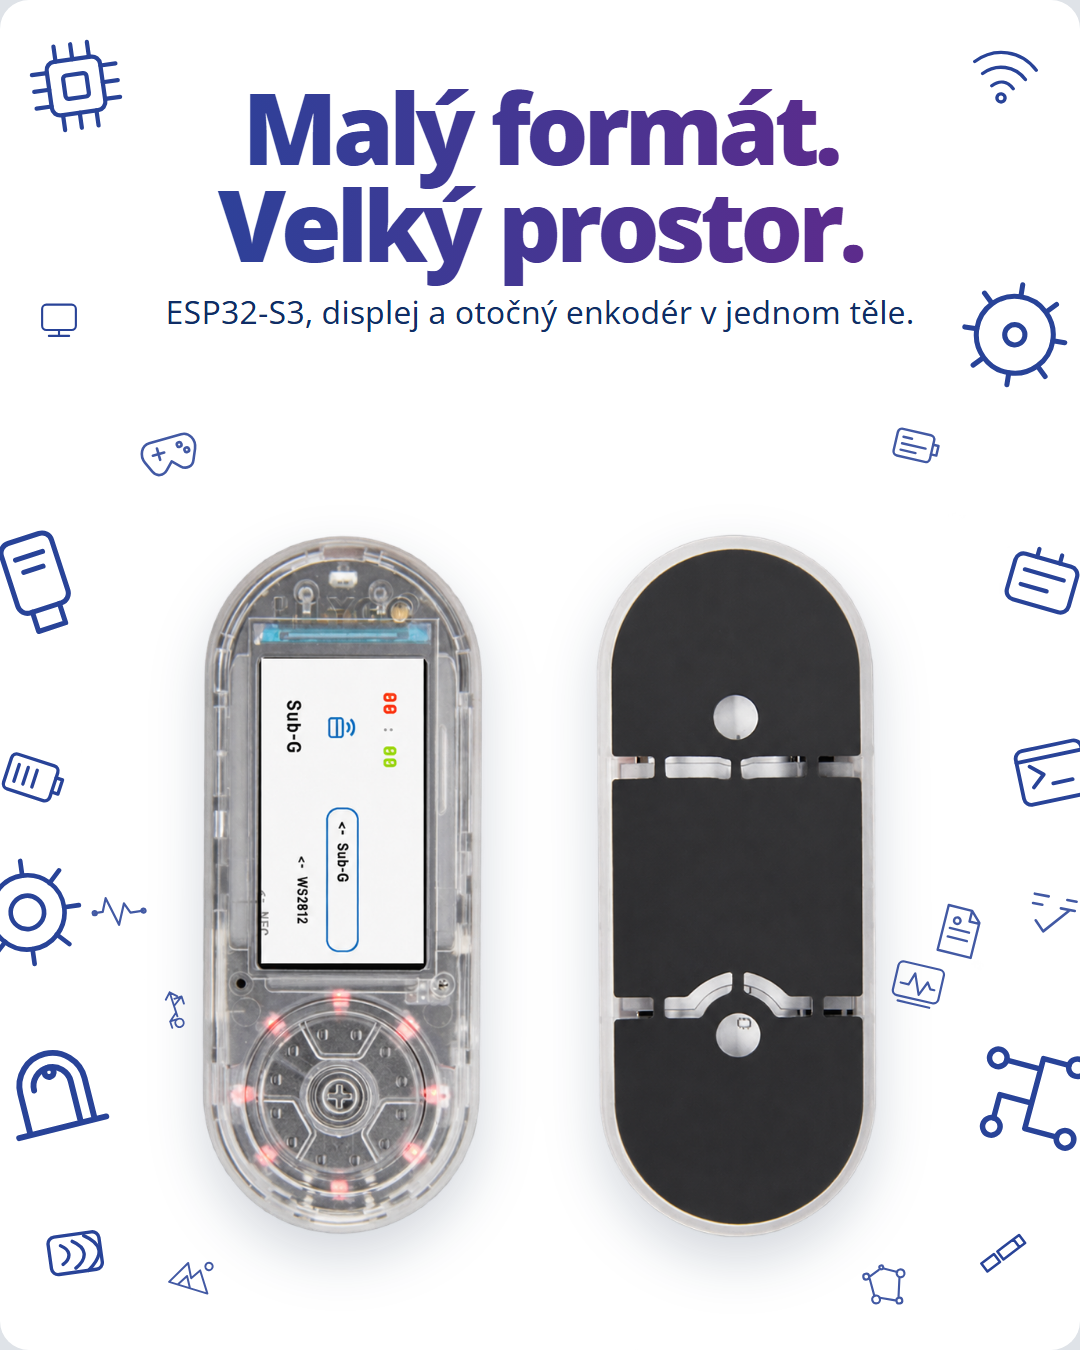
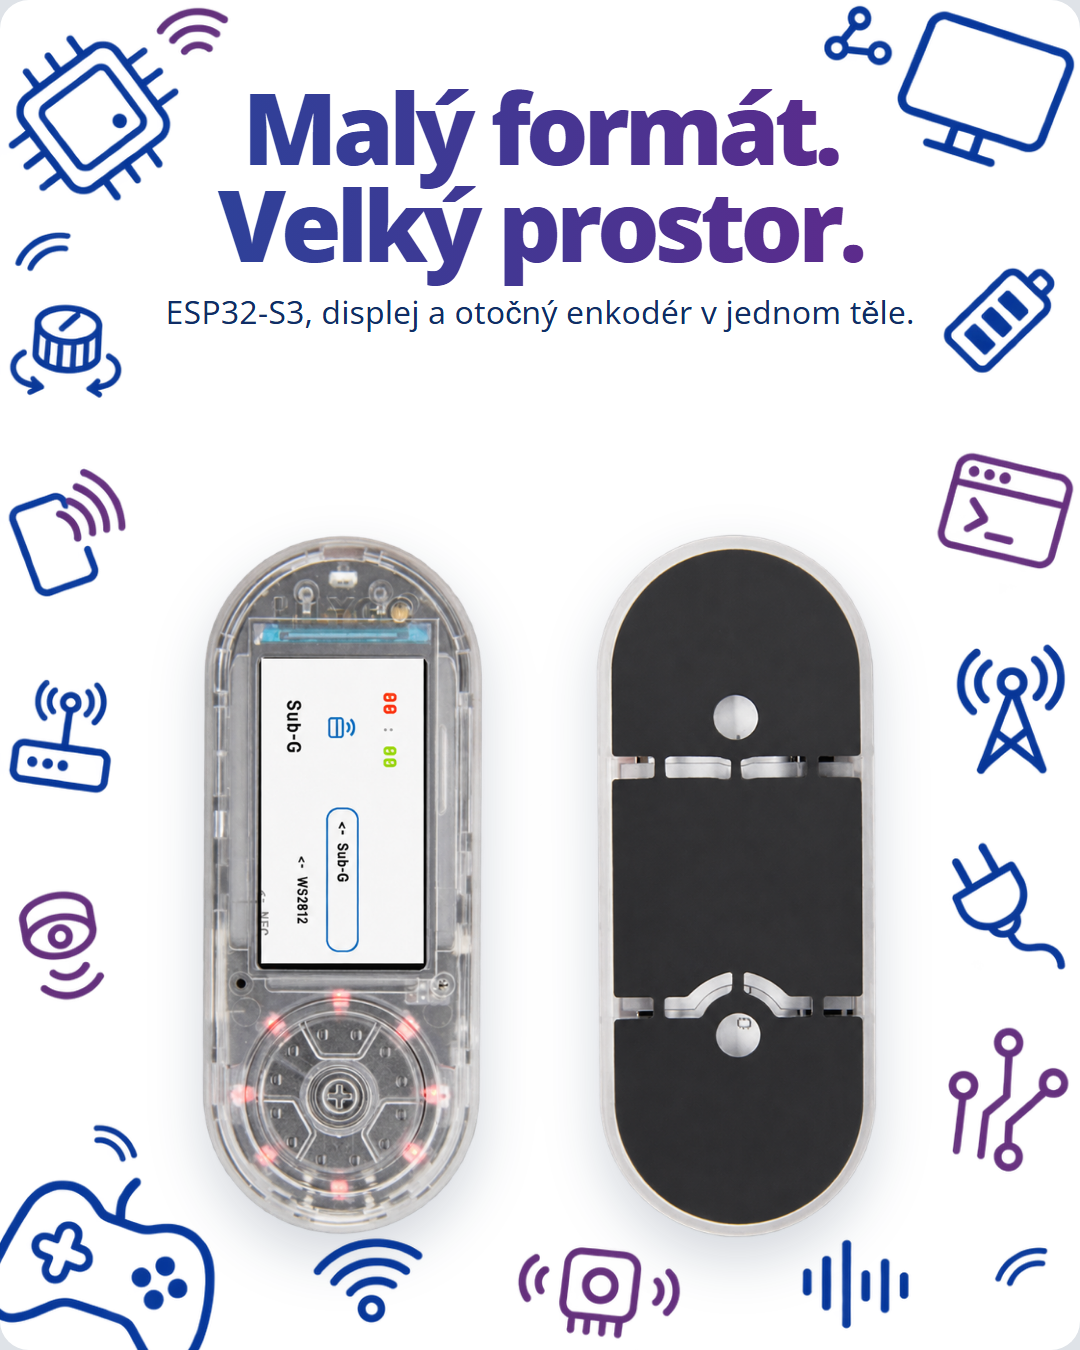
Add product editorial Instagram designs

diff --git a/public/ig-templates/styles.css b/public/ig-templates/styles.css
@@ -8,7 +8,7 @@
 /* Alza-like editorial proportions: large subjects, balanced grids, no UI chrome. */
 .bingo .inner{inset:6.8cqw}.bingo h1{font-size:12.6cqw!important;line-height:.86}.bingo h2{margin-top:1.3cqw;font-size:5.4cqw;line-height:1.05}.bingo-grid{display:grid;grid-template-columns:repeat(3,1fr);grid-template-rows:repeat(3,1fr);height:77cqw;margin-top:4.6cqw;border:.14cqw solid rgba(255,255,255,.32)}.bingo-grid div{display:grid;place-items:center;border:.14cqw solid rgba(255,255,255,.32);overflow:hidden}.bingo-grid img{display:block;max-width:20cqw;max-height:20cqw;object-fit:contain;filter:drop-shadow(0 1.2cqw 1.5cqw rgba(4,16,46,.25))}.bingo-grid div:first-child img{max-width:22cqw;max-height:18cqw}.bingo-grid div:nth-child(7) img{max-width:22cqw;max-height:21cqw}
 .l02 .inner{width:62cqw}.l02 h1{font-size:8.7cqw}.l02 .photo{width:70cqw;height:94cqw;right:-9cqw;bottom:-4cqw}.l08 .inner{width:62cqw}.l08 h1{font-size:8.1cqw}.l08 .photo{width:70cqw;height:94cqw;right:-7cqw;bottom:-4cqw}.l03 .photo{width:91cqw;height:94cqw;left:4.5cqw;bottom:-4cqw}
-.tech-icons{position:absolute;inset:0;z-index:3;pointer-events:none}.tech-icons svg{position:absolute;width:7.5cqw;height:7.5cqw;fill:none;stroke:#284398;stroke-width:2.5;stroke-linecap:round;stroke-linejoin:round}.tech-icons .i1{left:5cqw;top:4cqw;width:9cqw;height:9cqw}.tech-icons .i2{right:6cqw;top:5cqw}.tech-icons .i3{left:5cqw;top:29cqw;width:5.5cqw;height:5.5cqw}.tech-icons .i4{right:4cqw;top:27cqw;width:10cqw;height:10cqw}.tech-icons .i5{left:5cqw;bottom:6cqw;width:8cqw;height:8cqw}.tech-icons .i6{right:6cqw;bottom:7cqw;width:6cqw;height:6cqw}.icon-poster .inner{inset:7.2cqw 12cqw}.icon-poster .sub{font-size:3cqw}
+.icon-poster .inner{inset:7.2cqw 12cqw}.icon-poster .sub{font-size:3cqw}
 .numbered-poster .inner{inset:6.8cqw 9cqw auto}.numbered-poster h1{font-size:8.4cqw;line-height:1.02}.numbered-poster .photo{width:80cqw;height:94cqw;left:10cqw;bottom:-4cqw}.number{position:absolute;z-index:6;display:grid;justify-items:center;line-height:1;text-align:center;color:#102d66}.number b{font-size:5.5cqw;font-weight:500}.number span{margin-top:.7cqw;font-size:1.65cqw;font-weight:650;white-space:nowrap}.number.n1{left:22cqw;top:50cqw}.number.n2{left:22cqw;top:66cqw}.number.n3{left:22cqw;top:84cqw}.number.n4{left:68cqw;top:60cqw;color:#fff}.number.n5{left:69cqw;top:83cqw;color:#fff}
 .l02 .inner{width:82cqw}.l02 h1{font-size:7.8cqw}.l08 .inner{width:88cqw}.l08 h1{font-size:7.4cqw}.l08 .letters{width:46cqw}
 .five-products .inner{inset:6.8cqw 8cqw auto}.five-products h1{font-size:8.9cqw;line-height:1.02}.product-five{position:absolute;left:4cqw;right:4cqw;bottom:0;height:92cqw;z-index:4;display:flex;align-items:flex-end;justify-content:center}.product-five div{position:relative;width:19cqw;height:80cqw;display:flex;align-items:flex-end;justify-content:center;margin:0 -.7cqw}.product-five img{display:block;max-width:20cqw;max-height:78cqw;object-fit:contain;filter:drop-shadow(0 2cqw 2cqw rgba(8,29,59,.18))}.product-five b{position:absolute;left:50%;top:45%;transform:translate(-50%,-50%);z-index:5;color:#fff;font-size:6cqw;line-height:1;font-weight:500;text-shadow:0 .2cqw .7cqw rgba(0,0,0,.72)}.product-five .p1{height:70cqw}.product-five .p2{height:76cqw}.product-five .p3{height:82cqw}.product-five .p4{height:74cqw}.product-five .p5{height:79cqw}.product-five .p3 b{top:50%}
@@ -18,8 +18,9 @@
 .l01 .photo{width:96cqw;height:96cqw;left:2cqw;bottom:-2cqw}
 .l02 .photo{width:86cqw;height:105cqw;right:-1cqw;bottom:-8cqw;transform:rotate(5deg);transform-origin:center}
 .l08 .letters b{background:#fff;color:#27b914;box-shadow:0 .45cqw 1.1cqw rgba(11,73,7,.08)}
-.tech-icons .i1{left:2cqw;top:3cqw;width:10cqw;height:10cqw;transform:rotate(-8deg)}.tech-icons .i2{right:3cqw;top:3cqw;width:8cqw;height:8cqw;transform:rotate(8deg)}.tech-icons .i3{left:3cqw;top:27cqw;width:5cqw;height:5cqw}.tech-icons .i4{right:0;top:25cqw;width:12cqw;height:12cqw;transform:rotate(9deg)}.tech-icons .i5{left:3cqw;bottom:5cqw;width:8cqw;height:8cqw;transform:rotate(-8deg)}.tech-icons .i6{right:4cqw;bottom:6cqw;width:6cqw;height:6cqw;transform:rotate(8deg)}.tech-icons .i7{left:18cqw;top:16cqw;width:4.2cqw;height:4.2cqw;transform:rotate(-12deg)}.tech-icons .i8{right:18cqw;top:16cqw;width:4.8cqw;height:4.8cqw;transform:rotate(10deg)}.tech-icons .i9{left:-2.5cqw;top:48cqw;width:12cqw;height:12cqw;transform:rotate(-18deg)}.tech-icons .i10{right:-1.5cqw;top:49cqw;width:10cqw;height:10cqw;transform:rotate(16deg)}.tech-icons .i11{left:-2cqw;bottom:17cqw;width:14cqw;height:14cqw;transform:rotate(-14deg)}.tech-icons .i12{right:-2cqw;bottom:17cqw;width:13cqw;height:13cqw;transform:rotate(15deg)}
-.tech-icons .i13{left:12cqw;top:38cqw;width:7cqw;height:7cqw;transform:rotate(-16deg)}.tech-icons .i14{right:12cqw;top:38cqw;width:6.5cqw;height:6.5cqw;transform:rotate(13deg)}.tech-icons .i15{left:-1cqw;top:68cqw;width:8cqw;height:8cqw;transform:rotate(18deg)}.tech-icons .i16{right:-2cqw;top:67cqw;width:9cqw;height:9cqw;transform:rotate(-12deg)}.tech-icons .i17{left:8cqw;top:81cqw;width:6cqw;height:6cqw;transform:rotate(-9deg)}.tech-icons .i18{right:8cqw;top:83cqw;width:6.5cqw;height:6.5cqw;transform:rotate(14deg)}.tech-icons .i19{left:14cqw;bottom:29cqw;width:5cqw;height:5cqw;transform:rotate(-18deg)}.tech-icons .i20{right:12cqw;bottom:31cqw;width:6cqw;height:6cqw;transform:rotate(13deg)}.tech-icons .i21{left:-3cqw;bottom:35cqw;width:11cqw;height:11cqw;transform:rotate(-8deg)}.tech-icons .i22{right:-1cqw;bottom:37cqw;width:7cqw;height:7cqw;transform:rotate(11deg)}.tech-icons .i23{left:15cqw;bottom:4cqw;width:5.4cqw;height:5.4cqw;transform:rotate(17deg)}.tech-icons .i24{right:15cqw;bottom:3cqw;width:5.8cqw;height:5.8cqw;transform:rotate(-12deg)}
-.tech-icons .i7,.tech-icons .i8,.tech-icons .i13,.tech-icons .i14,.tech-icons .i17,.tech-icons .i18,.tech-icons .i19,.tech-icons .i20,.tech-icons .i22,.tech-icons .i23,.tech-icons .i24{stroke-width:2.2;opacity:.88}
 .ig h1,.ig h2{overflow:visible;text-wrap:balance;padding:.1em .05em .14em;margin:-.1em -.05em -.14em}
 .five-products .inner{top:7.8cqw}.five-products h1{line-height:1.06}
+.tech-icons-generated{position:absolute;inset:0;z-index:3;width:100%;height:100%;object-fit:fill;pointer-events:none;user-select:none;-webkit-user-drag:none}
+.flipper-editorial{background:radial-gradient(circle at 50% 67%,#fff 0%,#fff8f1 54%,#fff2e4 100%);color:#102d66}.flipper-editorial .inner{inset:7.6cqw 7.8cqw auto}.flipper-editorial h1{font-size:8.8cqw;line-height:1.01}.flipper-editorial .sub{max-width:72cqw;margin:1.8cqw auto 0;font-size:2.85cqw}.flipper-editorial .editorial-product{position:absolute;z-index:4;left:4cqw;bottom:15cqw;width:92cqw;height:67cqw;object-fit:contain;mix-blend-mode:multiply;filter:drop-shadow(0 2.2cqw 2.7cqw rgba(65,35,10,.18));transform:rotate(-2deg)}.signal-rings{position:absolute;left:50%;bottom:8cqw;width:92cqw;height:92cqw;transform:translateX(-50%);z-index:1}.signal-rings i{position:absolute;left:50%;top:50%;border:.9cqw solid #ff7b20;border-radius:50%;transform:translate(-50%,-50%);opacity:.22}.signal-rings i:nth-child(1){width:43cqw;height:43cqw}.signal-rings i:nth-child(2){width:65cqw;height:65cqw;opacity:.16}.signal-rings i:nth-child(3){width:88cqw;height:88cqw;opacity:.1}
+.lilygo-editorial .inner{inset:7.6cqw 13cqw auto}.lilygo-editorial h1{font-size:10.1cqw;line-height:.96}.lilygo-editorial .sub{font-size:2.85cqw}.lilygo-editorial-product{position:absolute;z-index:4;left:4cqw;bottom:-2cqw;width:92cqw;height:94cqw;object-fit:contain;filter:drop-shadow(0 2.2cqw 2.5cqw rgba(8,29,59,.18))}
+.cardputer-editorial{background:radial-gradient(circle at 84% 10%,rgba(90,151,255,.34),transparent 35%),linear-gradient(145deg,#103780 0%,#303aa5 52%,#6f286f 100%)}.cardputer-editorial .inner{inset:7.4cqw 8cqw auto;width:68cqw}.cardputer-editorial h1{font-size:8.6cqw;line-height:.98}.cardputer-editorial .sub{max-width:60cqw;font-size:2.8cqw}.cardputer-card{position:absolute;z-index:3;left:6cqw;right:6cqw;bottom:6cqw;height:76cqw;border-radius:4cqw;background:#fff;box-shadow:0 2.5cqw 5cqw rgba(3,16,47,.28);overflow:hidden;transform:rotate(-2deg)}.cardputer-card:before{content:"";position:absolute;inset:3cqw;border:.18cqw solid #dce5f2;border-radius:2.4cqw}.cardputer-card img{position:absolute;inset:4cqw;width:calc(100% - 8cqw);height:calc(100% - 8cqw);object-fit:contain;mix-blend-mode:multiply;transform:rotate(3deg) scale(1.08);filter:drop-shadow(0 1.5cqw 2cqw rgba(7,21,47,.18))}

diff --git a/public/ig-templates/04-novinka-white.html b/public/ig-templates/04-novinka-white.html
@@ -13,31 +13,7 @@
     <p class="sub">ESP32-S3, displej a otočný enkodér v jednom těle.</p>
   </div>
 
-  <div class="tech-icons" aria-hidden="true">
-    <svg class="i1" viewBox="0 0 64 64"><rect x="16" y="16" width="32" height="32" rx="5"/><rect x="25" y="25" width="14" height="14" rx="2"/><path d="M22 7v9m10-9v9m10-9v9M22 48v9m10-9v9m10-9v9M7 22h9M7 32h9M7 42h9m32-20h9m-9 10h9m-9 10h9"/></svg>
-    <svg class="i2" viewBox="0 0 64 64"><path d="M9 25c13-13 33-13 46 0M16 33c9-9 23-9 32 0M24 41c5-5 11-5 16 0"/><circle cx="32" cy="49" r="3"/></svg>
-    <svg class="i3" viewBox="0 0 64 64"><rect x="12" y="15" width="40" height="30" rx="5"/><path d="M20 52h24M32 45v7"/></svg>
-    <svg class="i4" viewBox="0 0 64 64"><circle cx="32" cy="32" r="19"/><circle cx="32" cy="32" r="5"/><path d="M32 7v6m0 38v6M7 32h6m38 0h6M14 14l4 4m28 28 4 4m0-36-4 4M18 46l-4 4"/></svg>
-    <svg class="i5" viewBox="0 0 64 64"><rect x="13" y="18" width="38" height="28" rx="5"/><path d="M22 25c7 4 7 10 0 14m9-16c10 6 10 14 0 20m9-23c13 8 13 16 0 26"/></svg>
-    <svg class="i6" viewBox="0 0 64 64"><path d="M11 46l11-11 7 7-11 11zM25 32l14-14 7 7-14 14zM39 18l5-5 7 7-5 5"/></svg>
-    <svg class="i9" viewBox="0 0 64 64"><rect x="19" y="9" width="26" height="36" rx="5"/><path d="M25 45v10h14V45M25 18h14M27 25h10"/></svg>
-    <svg class="i10" viewBox="0 0 64 64"><rect x="13" y="18" width="38" height="28" rx="5"/><path d="M20 27h24M20 36h16M25 13v5m14-5v5"/></svg>
-    <svg class="i11" viewBox="0 0 64 64"><path d="M18 48V30a14 14 0 0128 0v18M13 48h38M24 30a8 8 0 0116 0v18"/><circle cx="32" cy="24" r="2"/></svg>
-    <svg class="i12" viewBox="0 0 64 64"><circle cx="13" cy="19" r="4"/><circle cx="49" cy="14" r="4"/><circle cx="52" cy="47" r="4"/><circle cx="18" cy="50" r="4"/><path d="M17 19h16V14h12M33 19v28h15M33 35H18v11"/></svg>
-    <svg class="i13" viewBox="0 0 64 64"><path d="M18 24h28c7 0 11 8 8 15l-4 9c-2 5-8 6-12 2l-6-6-6 6c-4 4-10 3-12-2l-4-9c-3-7 1-15 8-15zM23 30v10m-5-5h10"/><circle cx="42" cy="32" r="2"/><circle cx="47" cy="38" r="2"/></svg>
-    <svg class="i14" viewBox="0 0 64 64"><rect x="14" y="20" width="34" height="25" rx="4"/><path d="M48 28h5v9h-5M20 27h8M20 33h22M20 39h14"/></svg>
-    <svg class="i15" viewBox="0 0 64 64"><rect x="13" y="19" width="36" height="27" rx="4"/><path d="M49 27h5v11h-5M20 26v13M27 26v13M34 26v13"/></svg>
-    <svg class="i16" viewBox="0 0 64 64"><rect x="10" y="14" width="44" height="36" rx="5"/><path d="M18 25l8 7-8 7M31 39h13M10 21h44"/></svg>
-    <svg class="i17" viewBox="0 0 64 64"><path d="M8 34h8l5-13 9 28 8-20 5 10h13"/><circle cx="8" cy="34" r="2"/><circle cx="56" cy="39" r="2"/></svg>
-    <svg class="i18" viewBox="0 0 64 64"><path d="M18 11h22l9 9v33H18zM40 11v10h9M24 31h18M24 39h18"/><circle cx="29" cy="23" r="3"/></svg>
-    <svg class="i19" viewBox="0 0 64 64"><path d="M29 9v30m0-30-7 7m7-7 7 7M29 26l12-8m0 0v9m0-9h-9M29 34l-10 8m0 0v8m0-8h8"/><circle cx="29" cy="47" r="5"/></svg>
-    <svg class="i20" viewBox="0 0 64 64"><rect x="9" y="15" width="46" height="34" rx="5"/><path d="M15 36h8l4-12 8 20 6-14 4 6h4M16 54h32"/></svg>
-    <svg class="i21" viewBox="0 0 64 64"><circle cx="32" cy="32" r="9"/><circle cx="32" cy="32" r="20"/><path d="M32 4v8m0 40v8M4 32h8m40 0h8M12 12l6 6m28 28 6 6m0-40-6 6M18 46l-6 6"/></svg>
-    <svg class="i22" viewBox="0 0 64 64"><path d="M14 19h12M14 27h8M42 19h8M38 27h12M19 41l8 8 18-21"/></svg>
-    <svg class="i23" viewBox="0 0 64 64"><path d="M10 43l14-26 8 15 7-11 15 22zM20 43l7-12 7 12"/><circle cx="47" cy="14" r="4"/></svg>
-    <svg class="i24" viewBox="0 0 64 64"><circle cx="14" cy="18" r="3"/><circle cx="31" cy="12" r="2"/><circle cx="49" cy="22" r="4"/><circle cx="19" cy="43" r="4"/><circle cx="42" cy="49" r="3"/><path d="M17 19l11-5m6 0 12 6M17 21l1 18m5 3 15 6m4-3 5-19"/></svg>
-  </div>
-
+  <img class="tech-icons-generated" src="assets/tech-pictograms-generated.png" alt="" aria-hidden="true">
   <img class="photo" src="assets/lilygo-t-embed-cutout.png" alt="LILYGO T-Embed CC1101">
 </main>
 </body>

diff --git a/public/ig-templates/index.html b/public/ig-templates/index.html
@@ -25,6 +25,9 @@
     <div class="card"><img src="exports/10-balicek-soutez.png" alt="Spousta nápadů"><a href="exports/10-balicek-soutez.png">10 · Spousta nápadů</a></div>
     <div class="card"><img src="exports/11-mytus-fakt.png" alt="Víkendová výzva"><a href="exports/11-mytus-fakt.png">11 · Víkendová výzva</a></div>
     <div class="card"><img src="exports/12-komunitni-vyzva.png" alt="Ideální multitool"><a href="exports/12-komunitni-vyzva.png">12 · Ideální multitool</a></div>
+    <div class="card"><img src="exports/13-flipper-zero-editorial.png" alt="Flipper Zero"><a href="exports/13-flipper-zero-editorial.png">13 · Flipper Zero</a></div>
+    <div class="card"><img src="exports/14-lilygo-t-embed-editorial.png" alt="LILYGO T-Embed"><a href="exports/14-lilygo-t-embed-editorial.png">14 · LILYGO T-Embed</a></div>
+    <div class="card"><img src="exports/15-m5stack-cardputer-editorial.png" alt="M5Stack Cardputer"><a href="exports/15-m5stack-cardputer-editorial.png">15 · M5Stack Cardputer</a></div>
   </div>
 </main>
 </body>

diff --git a/public/ig-templates/14-lilygo-t-embed-editorial.html b/public/ig-templates/14-lilygo-t-embed-editorial.html
@@ -1,0 +1,3 @@
+<!doctype html>
+<html lang="cs"><head><meta charset="utf-8"><meta name="viewport" content="width=device-width"><title>14 LILYGO T-Embed</title><link rel="stylesheet" href="styles.css"></head>
+<body><main class="ig white lilygo-editorial"><div class="inner center"><h1 class="blue-text">Rozhraní<br>přesně po tvém.</h1><p class="sub">ESP32-S3, barevný displej a otočný enkodér.</p></div><img class="tech-icons-generated" src="assets/tech-pictograms-generated.png" alt="" aria-hidden="true"><img class="lilygo-editorial-product" src="assets/lilygo-t-embed-cutout.png" alt="LILYGO T-Embed CC1101"></main></body></html>

diff --git a/public/ig-templates/13-flipper-zero-editorial.html b/public/ig-templates/13-flipper-zero-editorial.html
@@ -1,0 +1,3 @@
+<!doctype html>
+<html lang="cs"><head><meta charset="utf-8"><meta name="viewport" content="width=device-width"><title>13 Flipper Zero</title><link rel="stylesheet" href="styles.css"></head>
+<body><main class="ig flipper-editorial"><div class="inner center"><h1>Jeden přístroj.<br>Spousta protokolů.</h1><p class="sub">NFC, RFID, Sub‑GHz, infračervený přenos a GPIO.</p></div><div class="signal-rings" aria-hidden="true"><i></i><i></i><i></i></div><img class="editorial-product" src="assets/flipper-zero-source.jpg" alt="Flipper Zero"></main></body></html>

diff --git a/public/ig-templates/15-m5stack-cardputer-editorial.html b/public/ig-templates/15-m5stack-cardputer-editorial.html
@@ -1,0 +1,3 @@
+<!doctype html>
+<html lang="cs"><head><meta charset="utf-8"><meta name="viewport" content="width=device-width"><title>15 M5Stack Cardputer</title><link rel="stylesheet" href="styles.css"></head>
+<body><main class="ig cardputer-editorial"><div class="inner"><h1>Počítač,<br>který schováš<br>do kapsy.</h1><p class="sub">Klávesnice, displej a ESP32-S3 v jednom těle.</p></div><div class="cardputer-card"><img src="assets/m5stack-cardputer-source.jpg" alt="M5Stack Cardputer ADV"></div></main></body></html>

diff --git a/public/ig-templates/README.md b/public/ig-templates/README.md
@@ -1,6 +1,6 @@
 # Instagram HTML šablony
 
-Sada obsahuje 12 jednoduchých kompozic inspirovaných čistým produktovým stylem Alzy. Neobsahuje cizí ani vlastní logo, horní štítky ani dekorativní UI. Každý post stojí na krátkém nadpisu, velké produktové fotografii a výrazné jednobarevné ploše.
+Sada obsahuje 15 jednoduchých kompozic inspirovaných čistým produktovým stylem Alzy. Neobsahuje cizí ani vlastní logo, horní štítky ani dekorativní UI. Každý post stojí na krátkém nadpisu, velké produktové fotografii a výrazné jednobarevné ploše.
 
 Textový tón, struktura popisků a připravené ukázky jsou v souboru [CAPTIONS.md](CAPTIONS.md).
 
@@ -26,6 +26,9 @@ Textový tón, struktura popisků a připravené ukázky jsou v souboru [CAPTION
 10. `10-balicek-soutez.html` – jednoduchý produktový claim
 11. `11-mytus-fakt.html` – víkendová výzva
 12. `12-komunitni-vyzva.html` – komunitní otázka
+13. `13-flipper-zero-editorial.html` – produktový editoriál Flipper Zero
+14. `14-lilygo-t-embed-editorial.html` – produktový editoriál LILYGO T-Embed
+15. `15-m5stack-cardputer-editorial.html` – produktový editoriál M5Stack Cardputer
 
 ## Barevný manuál
 
